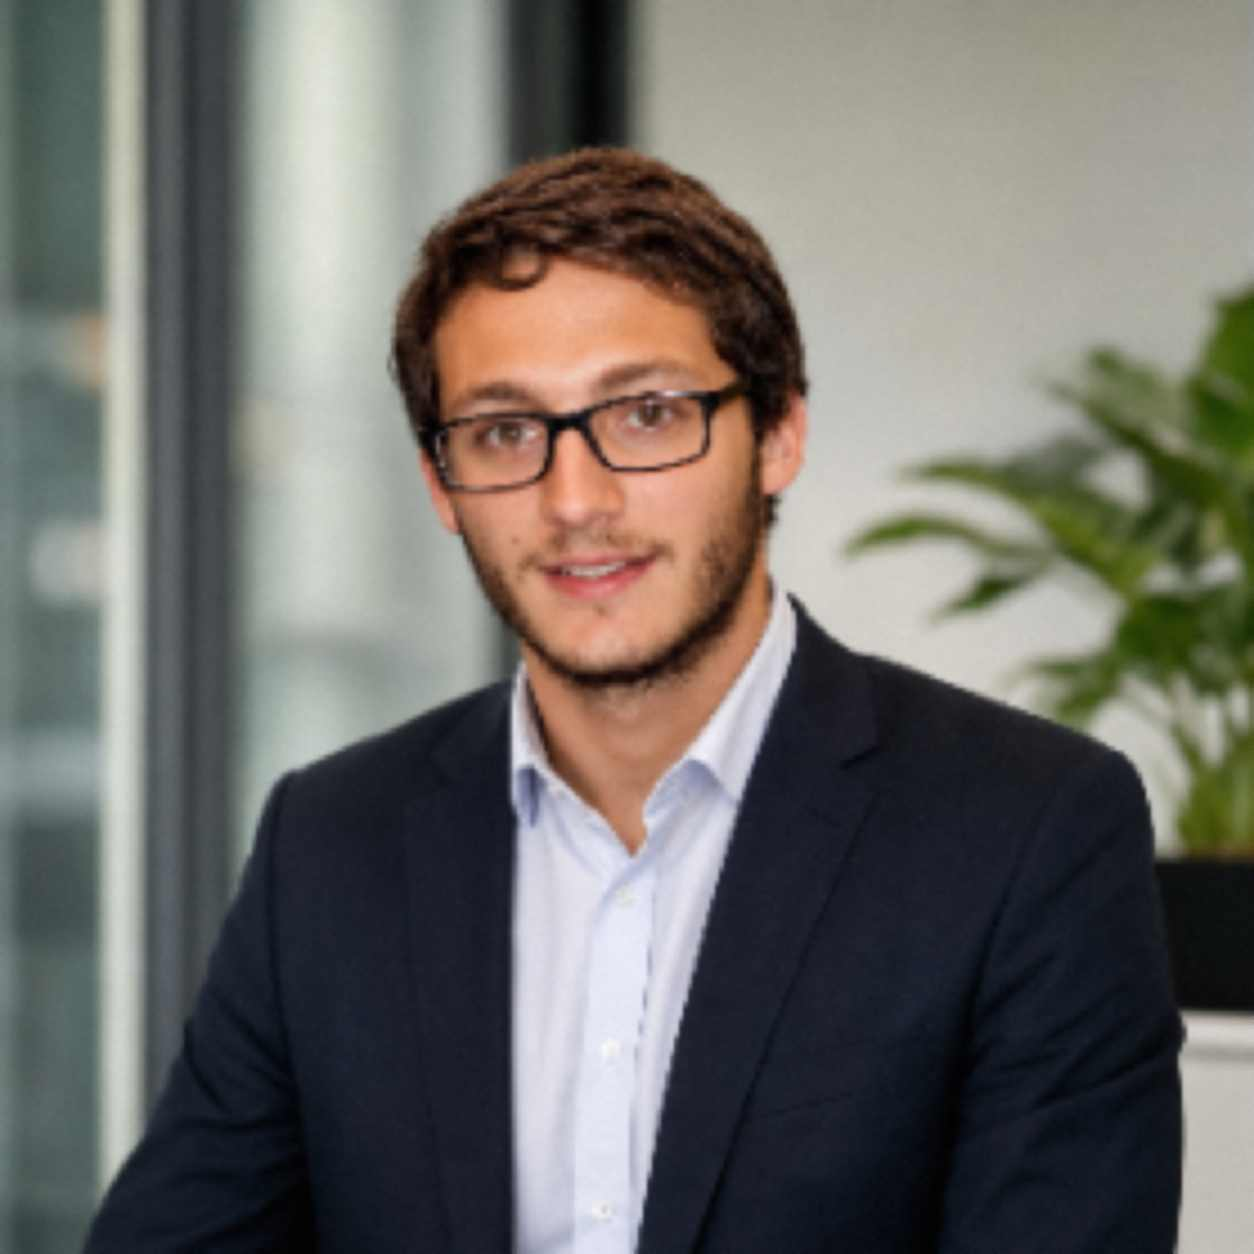
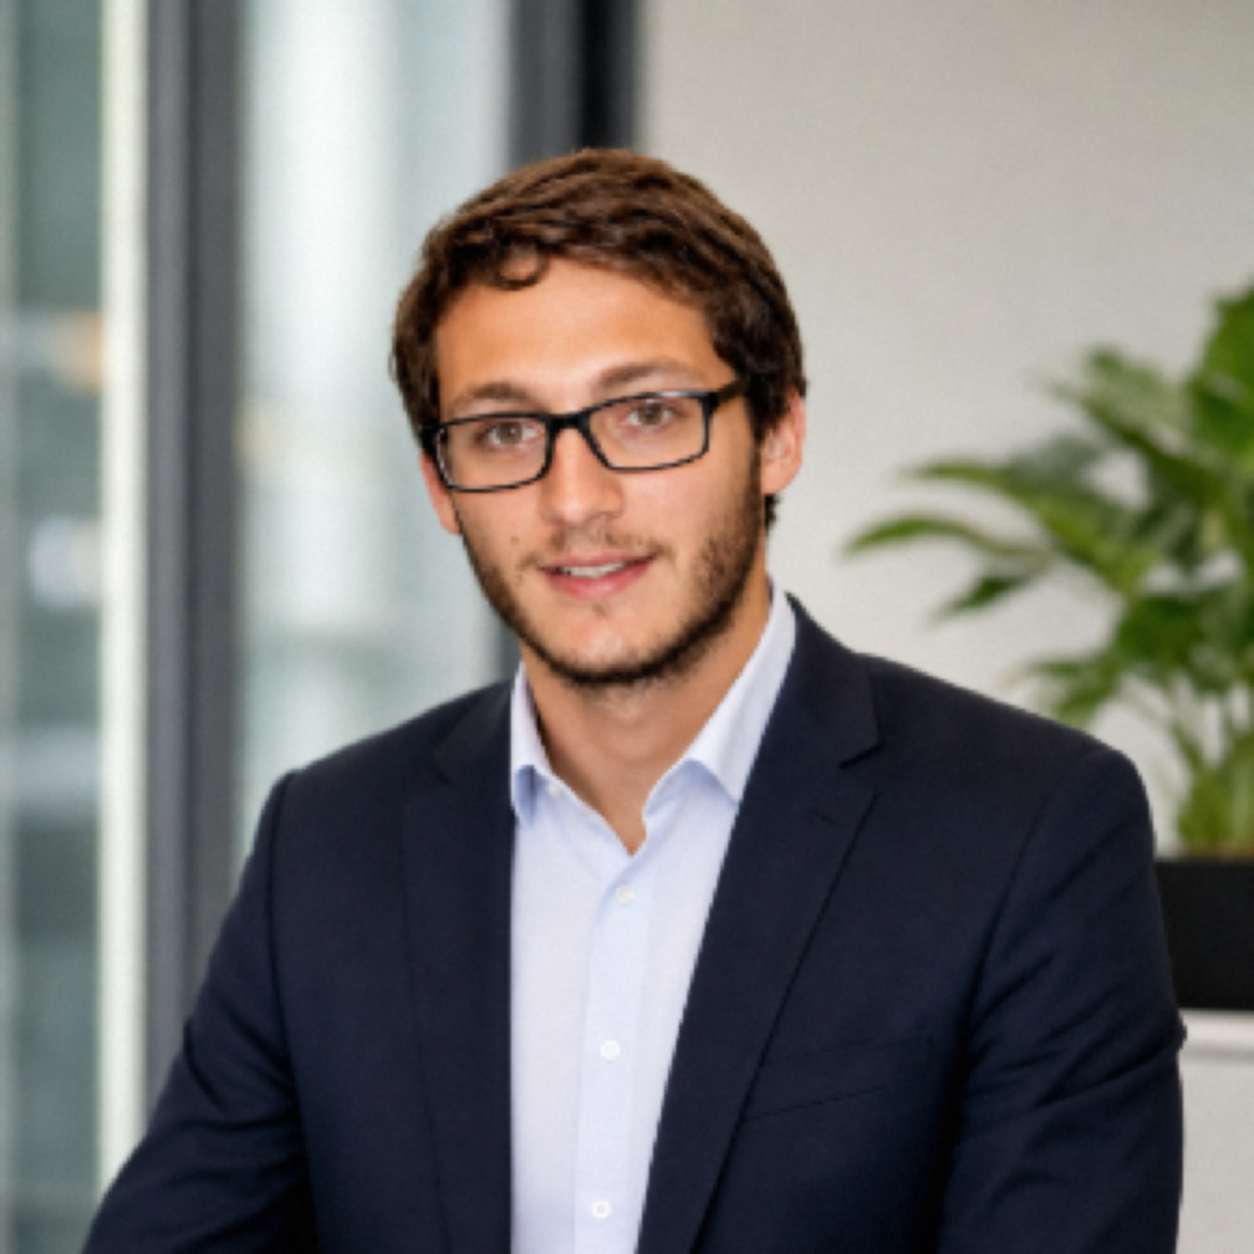
Update Eric, Victor, and Mariano's team photos

diff --git a/lib/team.ts b/lib/team.ts
@@ -77,7 +77,7 @@ export const teamMembers: TeamMember[] = [
   },
   {
     "id": "eric-adams",
-    "img": "/about/eric.jpg",
+    "img": "/about/eric.png",
     "alt": "Eric Adams, Attorney Recruiter at Haraka Headhunters LLC",
     "name": "Eric Adams",
     "role": "Attorney Recruiter",
@@ -89,7 +89,7 @@ export const teamMembers: TeamMember[] = [
   },
   {
     "id": "victor",
-    "img": "/about/victor.jpg",
+    "img": "/about/victor.png",
     "alt": "Victor Hussain, Attorney Recruiter at Haraka Headhunters LLC",
     "name": "Victor Hussain",
     "role": "Attorney Recruiter",
